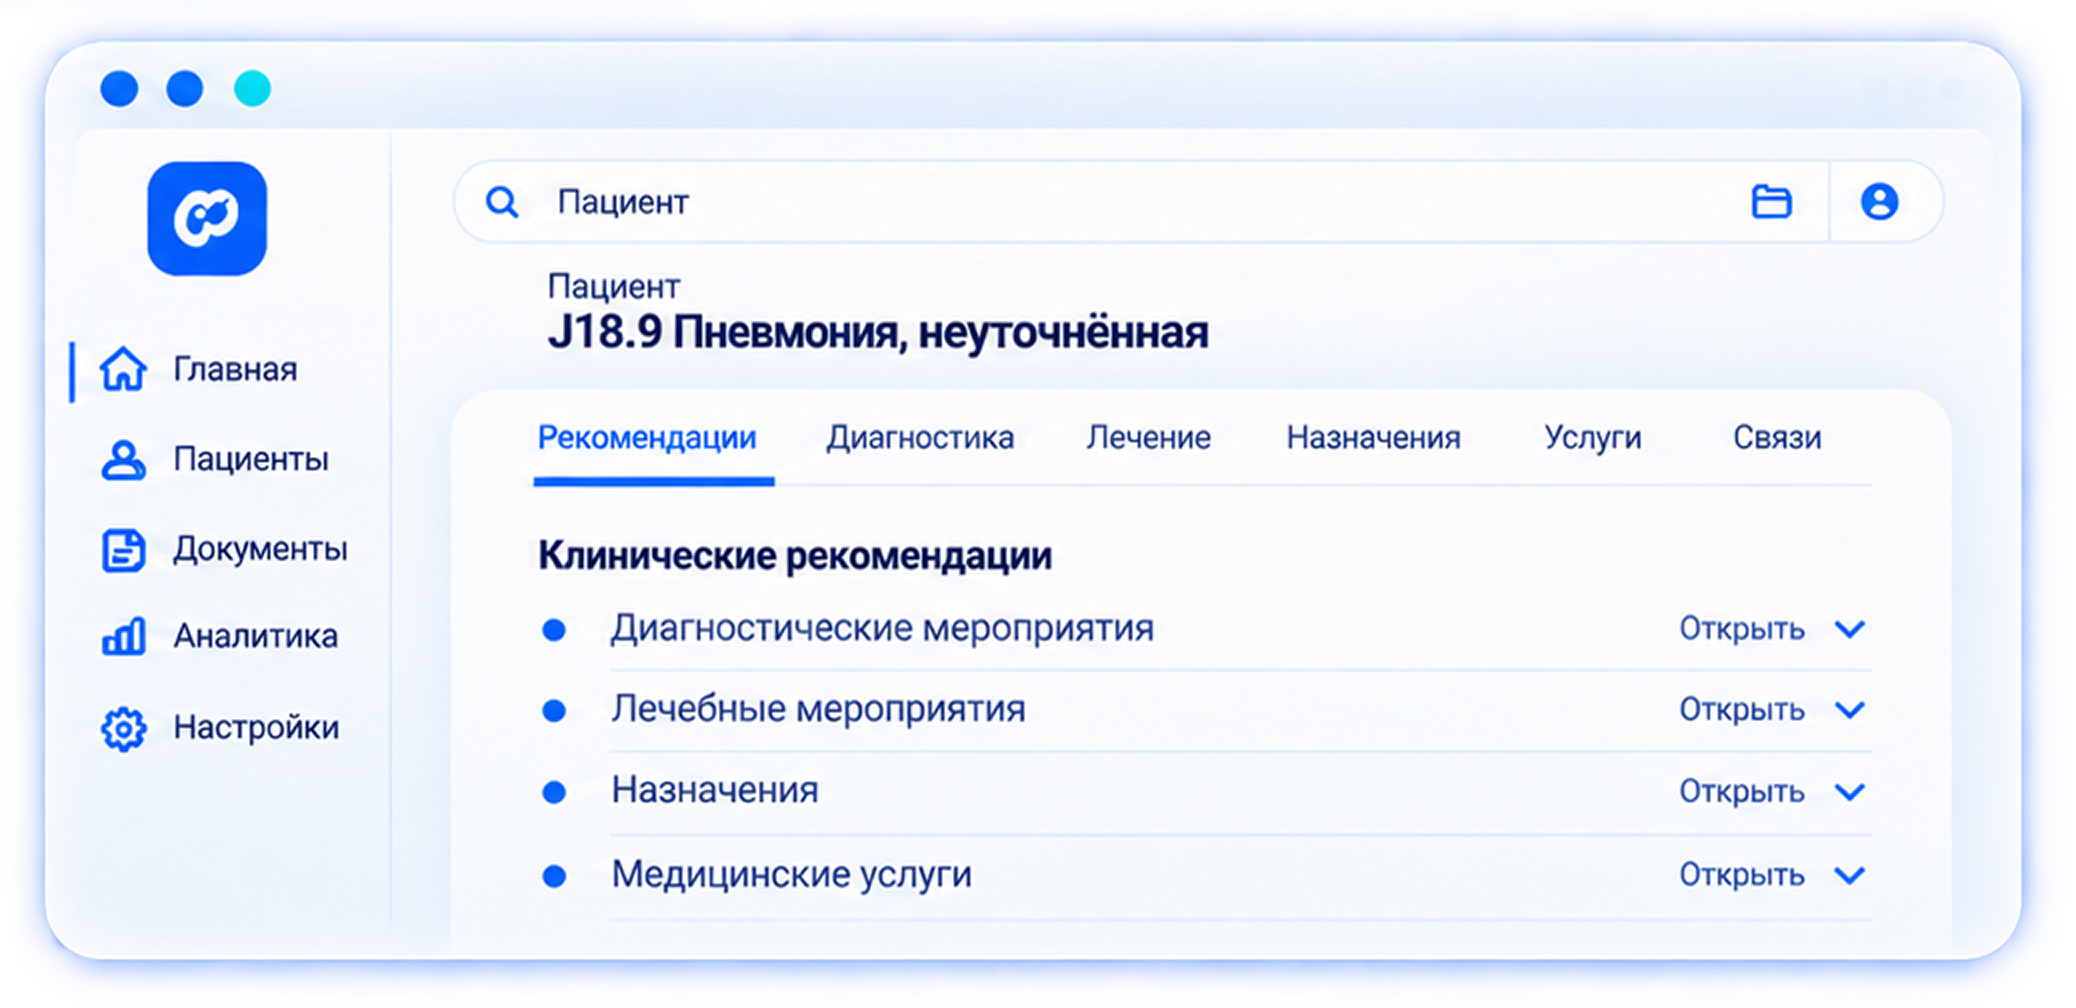
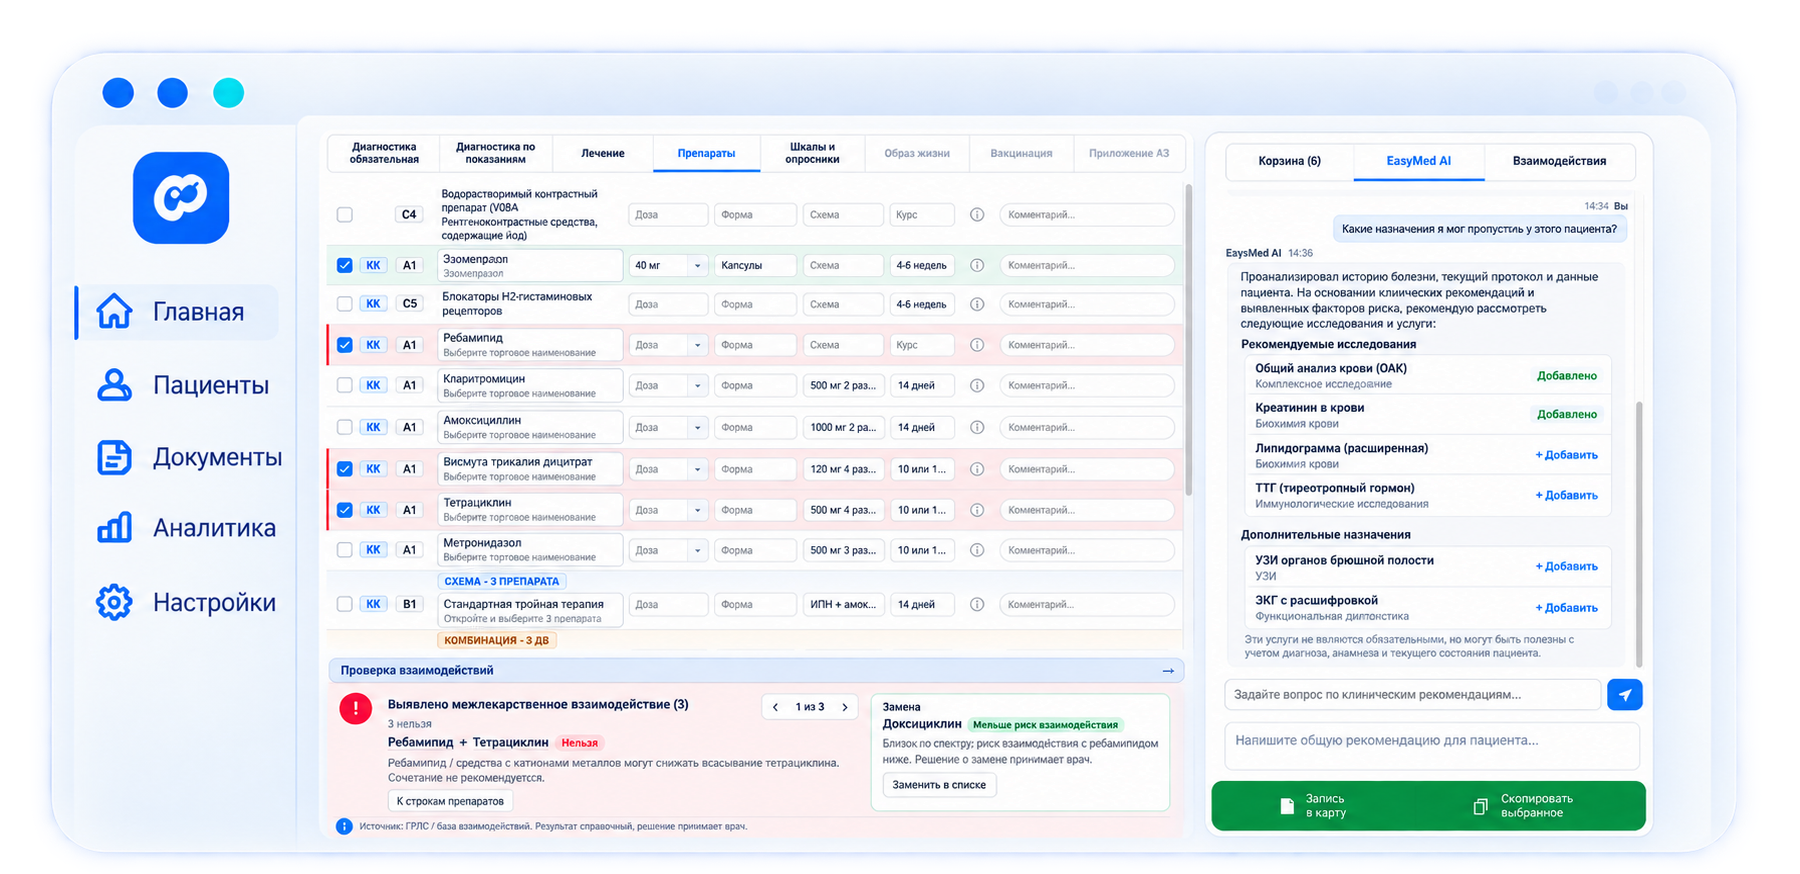
feat: styles

diff --git a/app/about/page.module.css b/app/about/page.module.css
@@ -802,35 +802,6 @@
   margin-top: 0;
 }
 
-.helpMore {
-  display: inline-flex;
-  align-items: center;
-  gap: 4px;
-  margin-top: auto;
-  padding-top: 12px;
-  color: #0b60fb;
-  font-size: 14px;
-  font-weight: 700;
-  line-height: 1;
-  text-align: left;
-  text-decoration: none;
-  transition: color 0.2s ease;
-}
-
-.helpMore > span {
-  font-size: 16px;
-  line-height: 1;
-}
-
-.helpMore:hover {
-  color: #0849c7;
-}
-
-.helpMore:focus-visible {
-  outline: 2px solid #0f1e3f;
-  outline-offset: 4px;
-}
-
 @media (hover: hover) and (pointer: fine) {
   .helpCard:hover {
     transform: scale(1.03);
@@ -892,10 +863,6 @@
 
 @media (prefers-reduced-motion: reduce) {
   .helpCard {
-    transition: none;
-  }
-
-  .helpMore {
     transition: none;
   }
 

diff --git a/app/about/page.tsx b/app/about/page.tsx
@@ -275,9 +275,6 @@ export default function AboutPage() {
                     <li key={item}>{item}</li>
                   ))}
                 </ul>
-                <a className={styles.helpMore} href="#">
-                  Подробнее <span aria-hidden="true">→</span>
-                </a>
               </li>
             ))}
           </ul>
